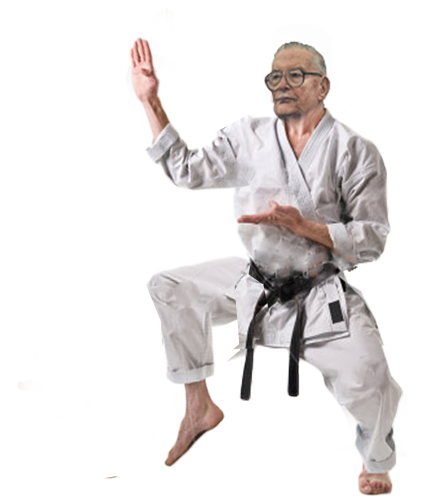
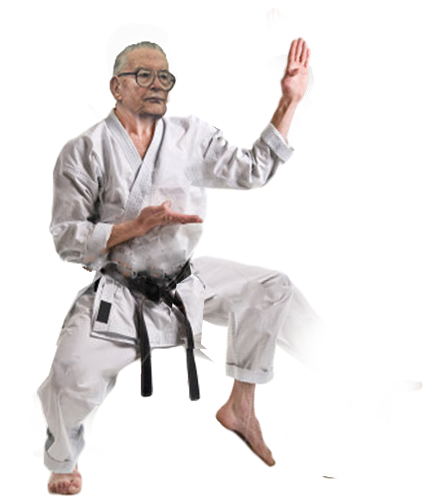
Blocking now works correctly, images show, reversed positions also show.

diff --git a/SoftUniFighter/src/game/gameObjects/Player.java b/SoftUniFighter/src/game/gameObjects/Player.java
@@ -49,11 +49,14 @@ public class Player {
     private BufferedImage playerKick;
     private BufferedImage reversePlayerPunch;
     private BufferedImage reversePlayerKick;
+    private BufferedImage playerBlock;
+    private BufferedImage playerRevBlock;
 
     private BufferedImage playerCurrentStationary;
     private BufferedImage playerCurrentWalk;
     private BufferedImage playerCurrentPunch;
     private BufferedImage playerCurrentKick;
+    private BufferedImage playerCurrentBlock;
 
     //private Timer timer;
 
@@ -148,51 +151,54 @@ public class Player {
     }
 
     public void render(Graphics g) {
-        if (!(this.punching > 0) && !(this.kicking > 0)) {
-            // Walking animation
-            if (this.movingLeft || this.movingRight) {
-                if (this.walkState % WALK_ANIMATION_LENGTH == 0) {
-                    if (this.printWalkImg1) {
-                        this.printWalkImg1 = false;
-                    } else {
-                        this.printWalkImg1 = true;
+        if (this.isBlocking()) {
+            g.drawImage(this.playerCurrentBlock, this.x, this.y, null);
+        } else {
+            if (!(this.punching > 0) && !(this.kicking > 0)) {
+                // Walking animation
+                if (this.movingLeft || this.movingRight) {
+                    if (this.walkState % WALK_ANIMATION_LENGTH == 0) {
+                        if (this.printWalkImg1) {
+                            this.printWalkImg1 = false;
+                        } else {
+                            this.printWalkImg1 = true;
+                        }
+                        this.walkState = 1;
                     }
+
+                    if (this.printWalkImg1) {
+                        g.drawImage(this.playerCurrentWalk, this.x, this.y, null);
+                    } else {
+                        g.drawImage(this.playerCurrentStationary, this.x, this.y, null);
+                    }
+                    this.walkState++;
+                } else {
+                    g.drawImage(this.playerCurrentStationary, this.x, this.y, null);
                     this.walkState = 1;
                 }
 
-                if (this.printWalkImg1) {
-                    g.drawImage(this.playerCurrentWalk, this.x, this.y, null);
-                } else {
-                    g.drawImage(this.playerCurrentStationary, this.x, this.y, null);
+            } else if (this.punching > 0 && this.kicking == 0) {
+                // Punching animation
+                g.drawImage(this.playerCurrentPunch, this.x, this.y, null);
+                this.punching++;
+
+                if (this.punching > PUNCH_ANIMATION_LENGTH) {
+                    this.punching = 0;
                 }
-                this.walkState++;
+
+            } else if (this.kicking > 0 && this.punching == 0) {
+                // Kicking animation
+                g.drawImage(this.playerCurrentKick, this.x, this.y, null);
+                this.kicking++;
+
+                if (this.kicking > KICK_ANIMATION_LENGTH) {
+                    this.kicking = 0;
+                }
             } else {
+                //Standing still
                 g.drawImage(this.playerCurrentStationary, this.x, this.y, null);
                 this.walkState = 1;
             }
-
-        } else if (this.punching > 0 && this.kicking == 0) {
-            // Punching animation
-            g.drawImage(this.playerCurrentPunch, this.x, this.y, null);
-            this.punching++;
-
-            if (this.punching > PUNCH_ANIMATION_LENGTH) {
-                this.punching = 0;
-            }
-
-        } else if (this.kicking > 0 && this.punching == 0) {
-            // Kicking animation
-            g.drawImage(this.playerCurrentKick, this.x, this.y, null);
-            this.kicking++;
-
-            if (this.kicking > KICK_ANIMATION_LENGTH) {
-                this.kicking = 0;
-            }
-
-        } else {
-            //Standing still
-            g.drawImage(this.playerCurrentStationary, this.x, this.y, null);
-            this.walkState = 1;
         }
 
 /*      // Doesn't work as expected
@@ -268,11 +274,13 @@ public class Player {
             this.playerCurrentWalk = this.reversePlayerWalk;
             this.playerCurrentKick = this.reversePlayerKick;
             this.playerCurrentPunch = this.reversePlayerPunch;
+            this.playerCurrentBlock = this.playerRevBlock;
         } else {
             this.playerCurrentStationary = this.playerWalk1;
             this.playerCurrentWalk = this.playerWalk2;
             this.playerCurrentPunch = this.playerPunch;
             this.playerCurrentKick = this.playerKick;
+            this.playerCurrentBlock = this.playerBlock;
         }
     }
 
@@ -411,5 +419,21 @@ public class Player {
 
     public void setBlocking(boolean isBlocking) {
         this.isBlocking = isBlocking;
+    }
+
+    public BufferedImage getPlayerBlock() {
+        return playerBlock;
+    }
+
+    public void setPlayerBlock(BufferedImage playerBlock) {
+        this.playerBlock = playerBlock;
+    }
+
+    public BufferedImage getPlayerRevBlock() {
+        return playerRevBlock;
+    }
+
+    public void setPlayerRevBlock(BufferedImage playerRevBlock) {
+        this.playerRevBlock = playerRevBlock;
     }
 }

diff --git a/SoftUniFighter/src/game/Game.java b/SoftUniFighter/src/game/Game.java
@@ -60,6 +60,8 @@ public class Game implements Runnable {
         player1.setReversePlayerWalk(ImageLoader.loadImage("images" + File.separator + "MNakovWalk.png"));
         player1.setReversePlayerPunch(ImageLoader.loadImage("images" + File.separator + "MNakovPunch.png"));
         player1.setReversePlayerKick(ImageLoader.loadImage("images" + File.separator + "MNakovKick.png"));
+        player1.setPlayerBlock(Assets.nakovBlock);
+        player1.setPlayerRevBlock(Assets.nakovRevBlock);
 
         player2 = new Player(590, 240, CharacterEnum.Prof,
                 "images" + File.separator + "ProfNormal.png",
@@ -71,6 +73,8 @@ public class Game implements Runnable {
         player2.setReversePlayerWalk(ImageLoader.loadImage("images" + File.separator + "MProfWalk.png"));
         player2.setReversePlayerPunch(ImageLoader.loadImage("images" + File.separator + "MProfPunch.png"));
         player2.setReversePlayerKick(ImageLoader.loadImage("images" + File.separator + "MProfKick.png"));
+        player2.setPlayerBlock(Assets.profBlock);
+        player2.setPlayerRevBlock(Assets.profRevBlock);
 
         this.inputHandler = new InputHandler(this.display, player1, player2);
     }

diff --git a/SoftUniFighter/src/gfx/Assets.java b/SoftUniFighter/src/gfx/Assets.java
@@ -12,6 +12,8 @@ public class Assets {
     public static BufferedImage background;
     public static BufferedImage player1walk1, player1walk2;
     public static BufferedImage player1punch, player1kick;
+    public static BufferedImage nakovBlock, nakovRevBlock;
+    public static BufferedImage profBlock, profRevBlock;
 
     // public static BufferedImage player2walk1, player2walk2;
 
@@ -39,6 +41,9 @@ public class Assets {
         player1walk2 = ImageLoader.loadImage("images" + File.separator + "NakovWalk.png");
         player1punch = ImageLoader.loadImage("images" + File.separator + "NakovPunch.png");
         player1kick = ImageLoader.loadImage("images" + File.separator + "NakovKick.png");
-
+        nakovBlock = ImageLoader.loadImage("images" + File.separator + "NakovBlock.png");
+        nakovRevBlock = ImageLoader.loadImage("images" + File.separator + "MNakovBlock.png");
+        profBlock = ImageLoader.loadImage("images" + File.separator + "ProfBlock.png");
+        profRevBlock = ImageLoader.loadImage("images" + File.separator + "MProfBlock.png");
     }
 }

diff --git a/SoftUniFighter/src/game/InputHandler.java b/SoftUniFighter/src/game/InputHandler.java
@@ -147,7 +147,7 @@ public class InputHandler implements KeyListener{
         }
 
         if (keyCode == KeyEvent.VK_P) {
-            this.player2.setBlocking(true);
+            this.player2.setBlocking(false);
         }
 
         if (keyCode == KeyEvent.VK_K) {
